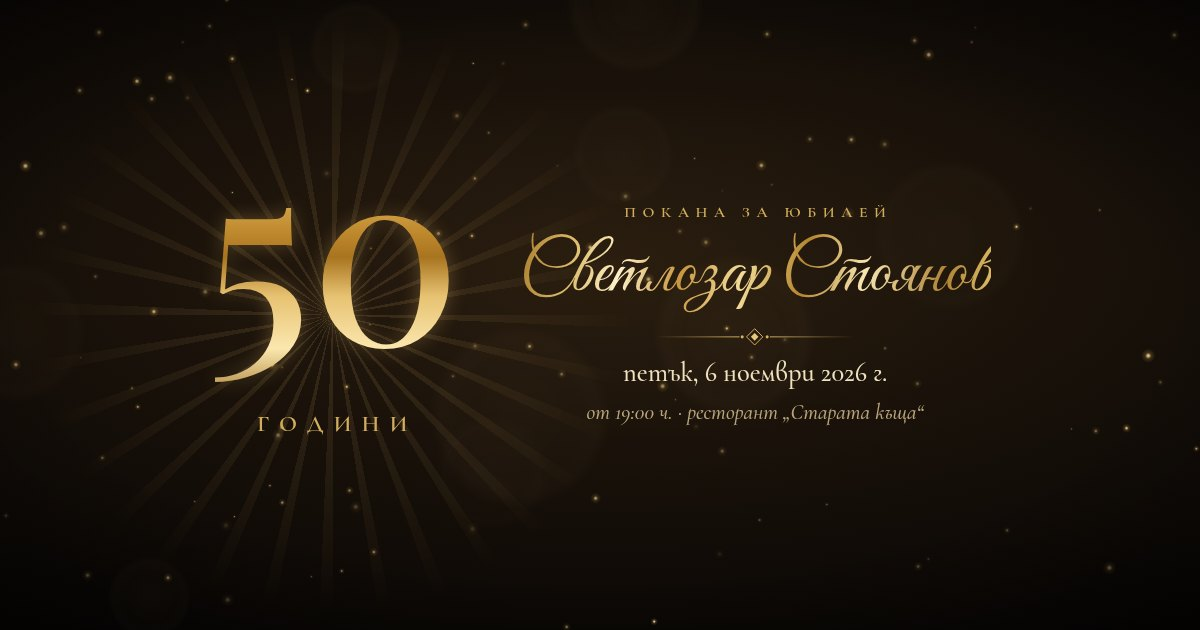
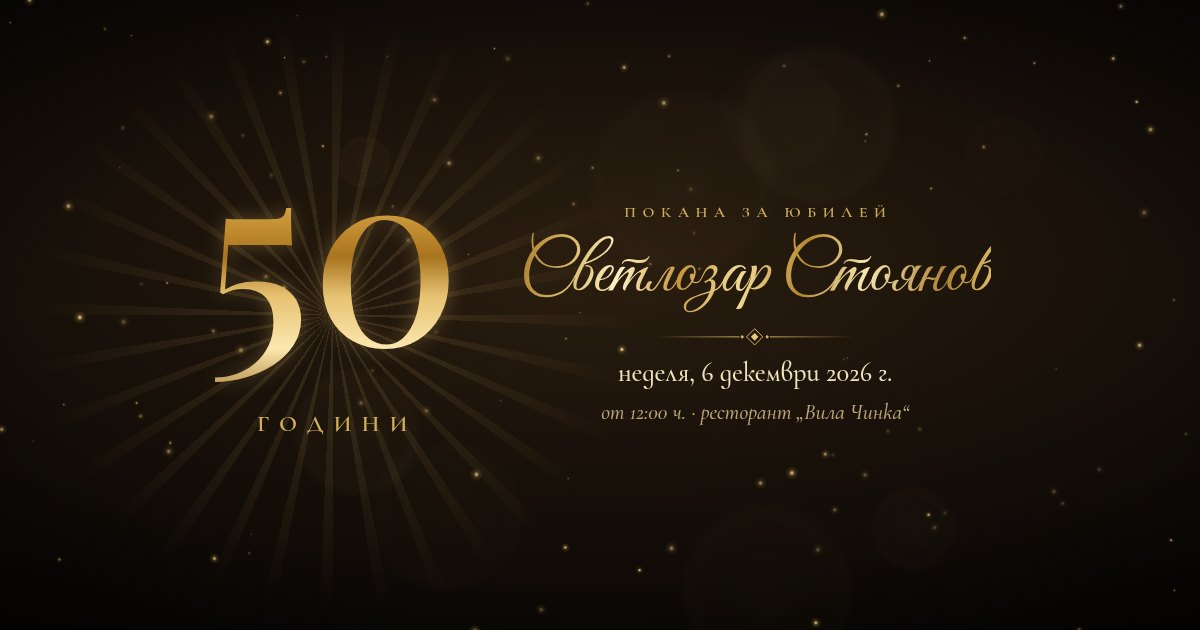
_

Changed region(s): [[0.4933, 0.573, 0.7708, 0.6635], [0.37, 0.9952, 0.4008, 1.0]]

diff --git a/index.html b/index.html
@@ -3,7 +3,7 @@
 <head>
 <meta charset="utf-8">
 <meta name="viewport" content="width=device-width, initial-scale=1, viewport-fit=cover">
-<title>Юбилеят на Светлозар Стоянов</title>
+<title>Покана за юбилей</title>
 <meta name="claude:viewport-fit-sides" content="cover">
 <meta name="description" content="Анимирана покана за юбилей">
 <meta name="theme-color" content="#070504">
@@ -18,7 +18,7 @@
 <meta property="og:type" content="website">
 <meta property="og:locale" content="bg_BG">
 <meta property="og:title" content="Покана за юбилей · Светлозар Стоянов · 50 години">
-<meta property="og:description" content="Петък, 6 ноември 2026 г., от 19:00 ч. · ресторант „Старата къща“">
+<meta property="og:description" content="Неделя, 6 декември 2026 г., от 12:00 ч. · ресторант „Вила Чинка“, Варна">
 <meta property="og:url" content="https://antoni-vasilev.github.io/anniversary_card_father_-vel/">
 <meta property="og:image" content="https://antoni-vasilev.github.io/anniversary_card_father_-vel/preview.jpg">
 <meta property="og:image:type" content="image/jpeg">
@@ -40,7 +40,7 @@ window.CONFIG = {
   venueType: "ресторант",         // ресторант, механа, хотел, дом…
   venue: "Вила Чинка",          // име на заведението (без кавички)
   address: "Sts. Constantine and Helena Resort, 9006 Варна",
-  mapQuery: "https://www.google.com/maps/place/%D0%92%D0%B8%D0%BB%D0%B0+%D0%A7%D0%B8%D0%BD%D0%BA%D0%B0/@43.2312127,28.0158944,876m/data=!3m1!1e3!4m9!3m8!1s0x40a4577df8433db1:0x3aacc1b52ff37f8b!5m2!4m1!1i2!8m2!3d43.2310733!4d28.0143917!16s%2Fg%2F11h4bzzdbl?entry=ttu&g_ep=EgoyMDI2MTEwMi4wIKXMDSoASAFQAw%3D%3D",                   // по желание: точен адрес за Google Maps
+  mapQuery: "Вила Чинка",                   // по желание: точен адрес за Google Maps
   rsvpDate: "2026-11-15",         // потвърждение до: ГГГГ-ММ-ДД (празно = без срок)
   phone: "",                      // телефон за потвърждение (празно = без телефон)
   greeting: "Скъпи колеги,",
@@ -48,7 +48,7 @@ window.CONFIG = {
   highlight: "{age}-годишен юбилей",   // тази част от текста е в злато
   closingTitle: "Очаквам Ви!",
   closingText: "Нека заедно превърнем този ден в незабравим спомен!",
-  pageTitle: "Покаба за юбилей", // заглавие в раздела на браузъра ({name} и {age} се заместват)
+  pageTitle: "Покана за юбилей", // заглавие в раздела на браузъра ({name} и {age} се заместват)
   slideSeconds: 0,                // секунди за всеки слайд; 0 = автоматично (8–12 сек.)
   durations: {3: 15},                  // секунди за отделен слайд, напр. { 3: 15, 4: 12 }
                                   // 1 заглавие · 2 години · 3 текст · 4 дата и място · 5 потвърждение · 6 „Очаквам Ви“
